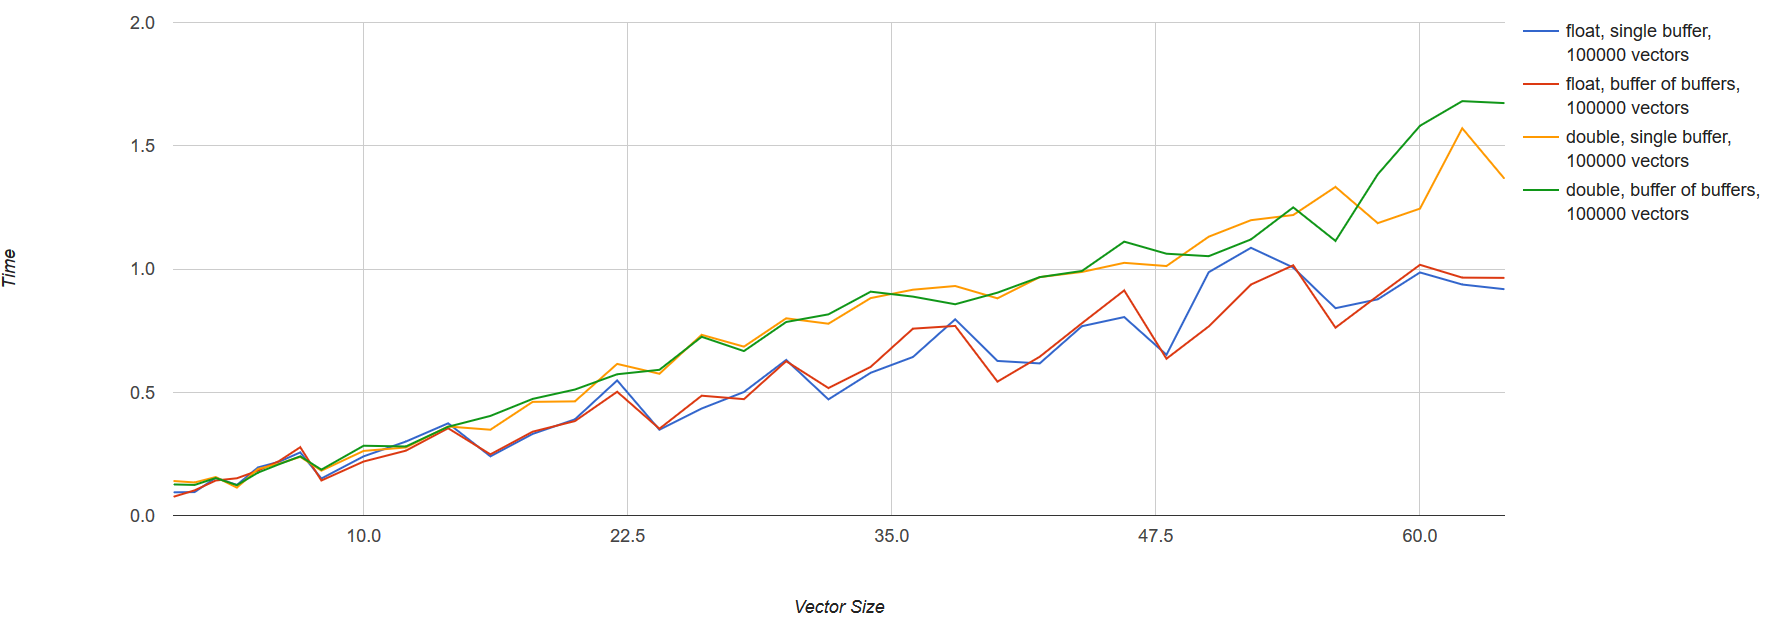
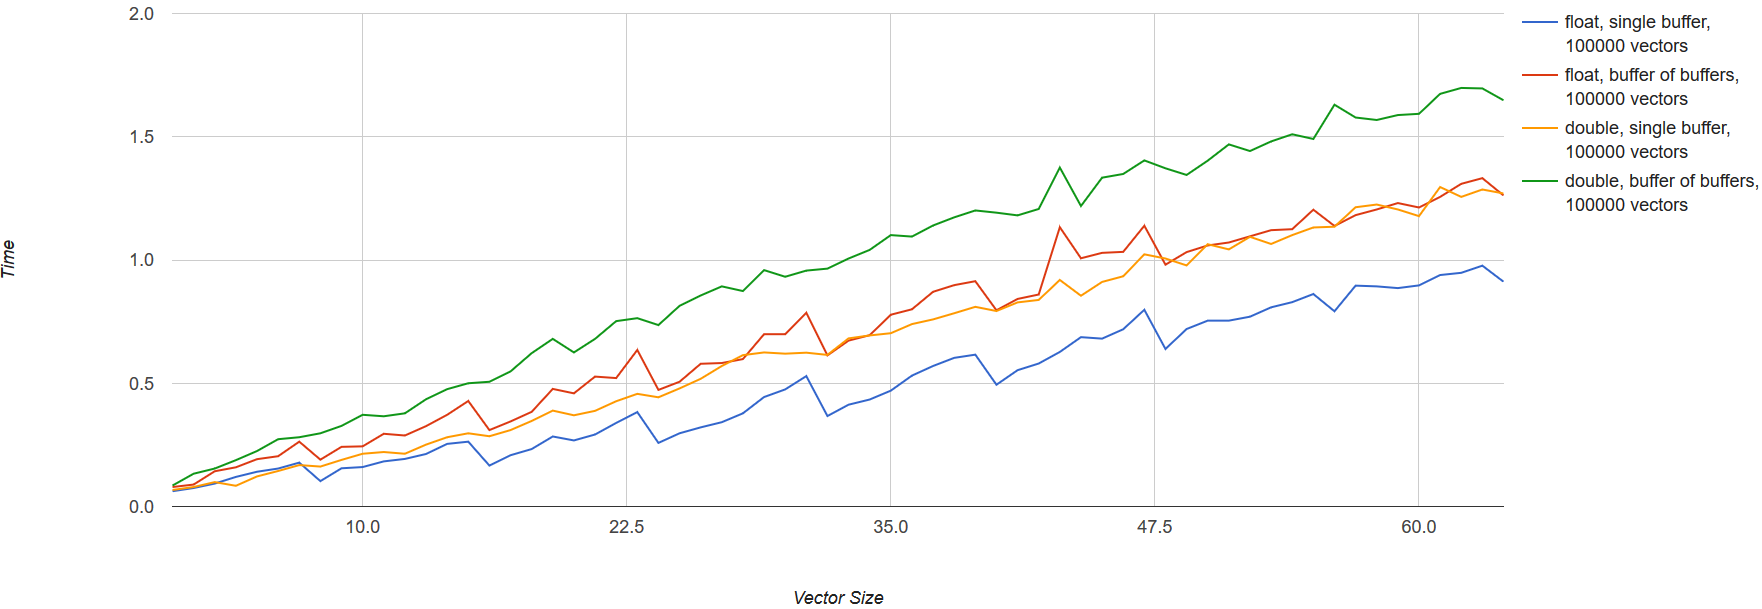
realized that buffer-per-vector algorithm was not being executed. now results much in favour for single buffer

diff --git a/visualize/report.html b/visualize/report.html
@@ -19,7 +19,7 @@ function drawBasic() {
 data.addColumn('number', 'float, buffer of buffers, 100000 vectors');
 data.addColumn('number', 'double, single buffer, 100000 vectors');
 data.addColumn('number', 'double, buffer of buffers, 100000 vectors');
-      data.addRows([[1, 0.094, 0.076, 0.14, 0.126], [2, 0.095, 0.102, 0.134, 0.124], [3, 0.153, 0.142, 0.156, 0.152], [4, 0.124, 0.151, 0.113, 0.123], [5, 0.195, 0.182, 0.189, 0.174], [6, 0.218, 0.221, 0.21, 0.208], [7, 0.256, 0.277, 0.238, 0.24], [8, 0.15, 0.142, 0.182, 0.186], [10, 0.24, 0.219, 0.262, 0.283], [12, 0.3, 0.263, 0.276, 0.28], [14, 0.374, 0.354, 0.361, 0.36], [16, 0.24, 0.248, 0.348, 0.404], [18, 0.331, 0.34, 0.461, 0.473], [20, 0.39, 0.383, 0.463, 0.511], [22, 0.548, 0.502, 0.615, 0.573], [24, 0.348, 0.352, 0.575, 0.591], [26, 0.434, 0.486, 0.733, 0.725], [28, 0.501, 0.472, 0.685, 0.667], [30, 0.631, 0.626, 0.8, 0.785], [32, 0.471, 0.517, 0.778, 0.816], [34, 0.579, 0.603, 0.882, 0.908], [36, 0.643, 0.758, 0.916, 0.888], [38, 0.796, 0.769, 0.931, 0.857], [40, 0.627, 0.543, 0.881, 0.904], [42, 0.617, 0.644, 0.967, 0.967], [44, 0.768, 0.78, 0.988, 0.992], [46, 0.805, 0.913, 1.025, 1.111], [48, 0.652, 0.636, 1.012, 1.062], [50, 0.987, 0.767, 1.131, 1.052], [52, 1.086, 0.937, 1.198, 1.12], [54, 1.006, 1.015, 1.219, 1.25], [56, 0.841, 0.762, 1.333, 1.114], [58, 0.877, 0.891, 1.186, 1.384], [60, 0.986, 1.017, 1.245, 1.581], [62, 0.937, 0.965, 1.571, 1.681], [64, 0.918, 0.964, 1.366, 1.673]]);
+      data.addRows([[1, 0.062, 0.079, 0.067, 0.085], [2, 0.075, 0.089, 0.079, 0.133], [3, 0.093, 0.143, 0.099, 0.154], [4, 0.12, 0.159, 0.084, 0.188], [5, 0.141, 0.192, 0.122, 0.225], [6, 0.154, 0.204, 0.144, 0.273], [7, 0.178, 0.263, 0.168, 0.281], [8, 0.103, 0.19, 0.162, 0.297], [9, 0.155, 0.242, 0.189, 0.327], [10, 0.16, 0.244, 0.214, 0.372], [11, 0.183, 0.295, 0.221, 0.366], [12, 0.193, 0.288, 0.214, 0.378], [13, 0.213, 0.326, 0.251, 0.435], [14, 0.254, 0.372, 0.281, 0.476], [15, 0.263, 0.428, 0.297, 0.5], [16, 0.166, 0.31, 0.285, 0.506], [17, 0.208, 0.345, 0.31, 0.548], [18, 0.233, 0.384, 0.347, 0.622], [19, 0.284, 0.477, 0.389, 0.68], [20, 0.268, 0.459, 0.37, 0.625], [21, 0.292, 0.527, 0.388, 0.68], [22, 0.339, 0.521, 0.427, 0.752], [23, 0.383, 0.635, 0.457, 0.764], [24, 0.258, 0.473, 0.443, 0.736], [25, 0.297, 0.506, 0.479, 0.814], [26, 0.321, 0.579, 0.518, 0.856], [27, 0.342, 0.582, 0.57, 0.893], [28, 0.378, 0.598, 0.614, 0.874], [29, 0.444, 0.699, 0.625, 0.959], [30, 0.475, 0.699, 0.62, 0.932], [31, 0.529, 0.786, 0.624, 0.957], [32, 0.367, 0.613, 0.615, 0.965], [33, 0.413, 0.673, 0.682, 1.006], [34, 0.434, 0.695, 0.694, 1.041], [35, 0.47, 0.778, 0.703, 1.101], [36, 0.531, 0.8, 0.74, 1.095], [37, 0.57, 0.871, 0.759, 1.14], [38, 0.603, 0.898, 0.784, 1.173], [39, 0.616, 0.914, 0.81, 1.201], [40, 0.494, 0.796, 0.793, 1.192], [41, 0.553, 0.842, 0.828, 1.181], [42, 0.58, 0.86, 0.838, 1.207], [43, 0.627, 1.133, 0.919, 1.375], [44, 0.687, 1.007, 0.855, 1.219], [45, 0.681, 1.029, 0.911, 1.334], [46, 0.719, 1.033, 0.934, 1.349], [47, 0.798, 1.139, 1.023, 1.404], [48, 0.639, 0.981, 1.006, 1.372], [49, 0.72, 1.032, 0.978, 1.345], [50, 0.754, 1.059, 1.064, 1.403], [51, 0.754, 1.071, 1.043, 1.469], [52, 0.77, 1.096, 1.094, 1.442], [53, 0.808, 1.121, 1.065, 1.481], [54, 0.829, 1.125, 1.101, 1.51], [55, 0.862, 1.204, 1.132, 1.491], [56, 0.792, 1.138, 1.135, 1.63], [57, 0.896, 1.182, 1.214, 1.578], [58, 0.893, 1.205, 1.225, 1.568], [59, 0.886, 1.231, 1.205, 1.588], [60, 0.897, 1.213, 1.178, 1.593], [61, 0.939, 1.256, 1.296, 1.674], [62, 0.948, 1.309, 1.256, 1.698], [63, 0.977, 1.332, 1.286, 1.696], [64, 0.912, 1.262, 1.27, 1.648]]);
 
       var options = {
         hAxis: {

diff --git a/src/normalize.cpp b/src/normalize.cpp
@@ -4,13 +4,16 @@
 #include <iomanip>
 #include <vector>
 
+
+const unsigned int NUM_DISTINCT_BUFFERS = 16;
+
 template<class VectorElementType>
 inline double normalize2dArrayOfVectors(const unsigned int numIterations, const unsigned int numVectors, const unsigned int vectorSize) {
 	const VectorElementType normalizedSum = 1.0; // target sum of all values per vector; pre-convert to either double or float representation of 1.0
 
 	// each iteration will use it's own buffer, so we're allocating numVectors*numIterations length of data
 	std::vector<VectorElementType **> iterationBuffers;
-	iterationBuffers.resize(numIterations);
+	iterationBuffers.resize(NUM_DISTINCT_BUFFERS);
 	for (std::vector<VectorElementType **>::iterator iterationBufferPtr = iterationBuffers.begin(); iterationBufferPtr != iterationBuffers.end(); iterationBufferPtr++) {
 		*iterationBufferPtr = new VectorElementType*[numVectors];
 		for (unsigned int i = 0; i < numVectors; i++) {
@@ -26,9 +29,9 @@ inline double normalize2dArrayOfVectors(const unsigned int numIterations, const 
 
 
 	clock_t begin = clock();
-	for (std::vector<VectorElementType **>::iterator iterationBufferPtr = iterationBuffers.begin(); iterationBufferPtr != iterationBuffers.end(); iterationBufferPtr++) {
+	for (unsigned int iteration = 0; iteration < numIterations; iteration++) {
 		// iterate through all influences
-		for (VectorElementType **vertexWeightsPtr = *iterationBufferPtr, **end= vertexWeightsPtr+numVectors; vertexWeightsPtr != end; vertexWeightsPtr++) {
+		for (VectorElementType **vertexWeightsPtr = iterationBuffers[iteration % NUM_DISTINCT_BUFFERS], **end= vertexWeightsPtr+numVectors; vertexWeightsPtr != end; vertexWeightsPtr++) {
 
 			VectorElementType * const vertexWeights = *vertexWeightsPtr;
 			VectorElementType sum = 0;
@@ -48,10 +51,11 @@ inline double normalize2dArrayOfVectors(const unsigned int numIterations, const 
 
 	// to hell with releasing the memory of this mess.
 	for (std::vector<VectorElementType **>::iterator iterationBufferPtr = iterationBuffers.begin(); iterationBufferPtr != iterationBuffers.end(); iterationBufferPtr++) {
+		VectorElementType **vectorBuffer = *iterationBufferPtr;
 		for (unsigned int i = 0; i < numVectors; i++) {
-			delete[] ((*iterationBufferPtr)[i]);
+			delete [] vectorBuffer[i];
 		}
-		delete[](*iterationBufferPtr);
+		delete [] vectorBuffer;
 	}
 
 	return result;
@@ -62,7 +66,7 @@ inline double normalizeArrayOfVectors(const unsigned int numIterations, const un
 	const VectorElementType normalizedSum = 1.0; // target sum of all values per vector; pre-convert to either double or float representation of 1.0
 
 	std::vector<VectorElementType *> iterationBuffers;
-	iterationBuffers.resize(numIterations);
+	iterationBuffers.resize(NUM_DISTINCT_BUFFERS);
 	for (std::vector<VectorElementType *>::iterator iterationBufferPtr = iterationBuffers.begin(); iterationBufferPtr != iterationBuffers.end(); iterationBufferPtr++) {
 		*iterationBufferPtr = new VectorElementType[numVectors*vectorSize];
 		for (unsigned int i = 0; i<numVectors*vectorSize; i++)
@@ -75,10 +79,10 @@ inline double normalizeArrayOfVectors(const unsigned int numIterations, const un
 	// set weights on the buffer to some value - we don't care about the actual value here.
 
 	clock_t begin = clock();
-	for (std::vector<VectorElementType *>::iterator iterationBufferPtr = iterationBuffers.begin(); iterationBufferPtr != iterationBuffers.end(); iterationBufferPtr++) {
+	for (unsigned int iteration = 0; iteration < numIterations;iteration++) {
 
 		// iterate through all influences
-		for (VectorElementType *vertexWeights = *iterationBufferPtr, *end=vertexWeights+numVectors*vectorSize; vertexWeights != end; vertexWeights += vectorSize) {
+		for (VectorElementType *vertexWeights = iterationBuffers[iteration % NUM_DISTINCT_BUFFERS], *end=vertexWeights+numVectors*vectorSize; vertexWeights != end; vertexWeights += vectorSize) {
 			VectorElementType sum = 0;
 			for (unsigned int i = 0; i < vectorSize; i++) {
 				sum += vertexWeights[i];
@@ -108,8 +112,8 @@ inline void compareImplementations(const char * const algorithmName, NormalizeFu
 	std::cout << numVectors << ",";
 	std::cout << numIterations << ",";
 
-	double floatResult = normalizeArrayOfVectors<float>(numIterations, numVectors, vectorSize);
-	double doubleResult = normalizeArrayOfVectors<double>(numIterations, numVectors, vectorSize);
+	double floatResult = floatFunc(numIterations, numVectors, vectorSize);
+	double doubleResult = doubleFunc(numIterations, numVectors, vectorSize);
 	double diff = doubleResult - floatResult;
 	diff = (diff / floatResult) * 100;
 
@@ -120,8 +124,8 @@ inline void compareImplementations(const char * const algorithmName, NormalizeFu
 
 int main() {
 	std::cout << "algorithm name,vector size,num vectors,num iterations,float time,double time"<<std::endl;
-	for (unsigned int verts = 1000, iterations = 10000; verts <= 100000; verts *= 10, iterations /= 10) {
-		for (unsigned int influences = 1; influences <= 64; influences = influences<8?influences+1:influences+2) {
+	for (unsigned int verts = 100000, iterations = 100; verts <= 100000; verts *= 10, iterations /= 10) {
+		for (unsigned int influences = 1; influences <= 64; influences++) {
 			compareImplementations("single buffer    ", normalizeArrayOfVectors<float>, normalizeArrayOfVectors<double>, iterations, verts, influences);
 			compareImplementations("buffer of buffers", normalize2dArrayOfVectors<float>, normalize2dArrayOfVectors<double>, iterations, verts, influences);
 		}
